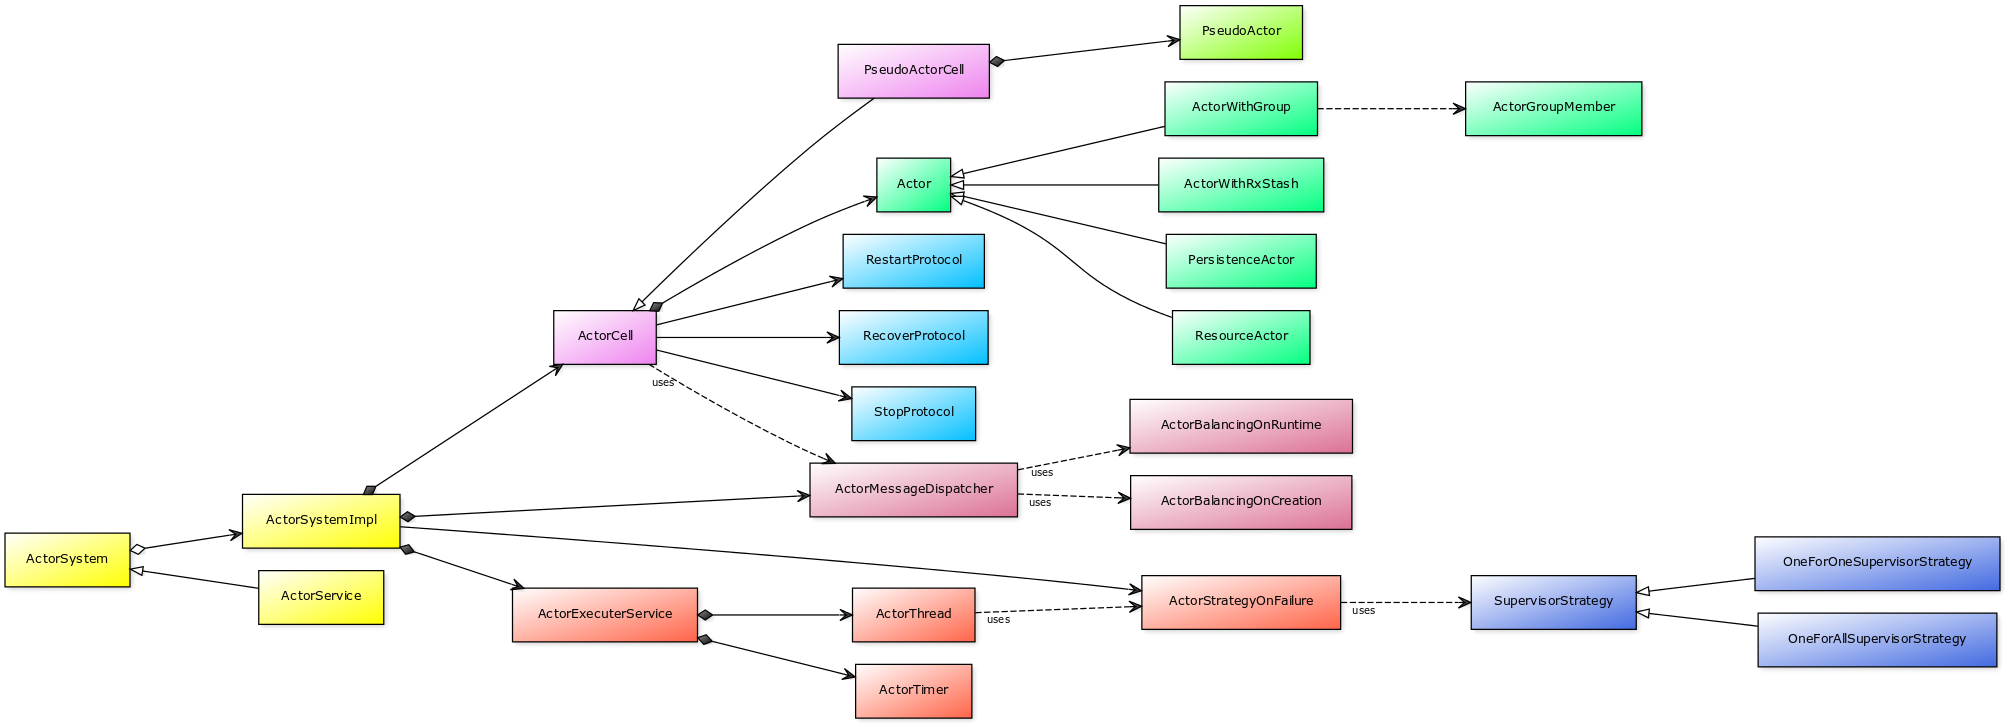
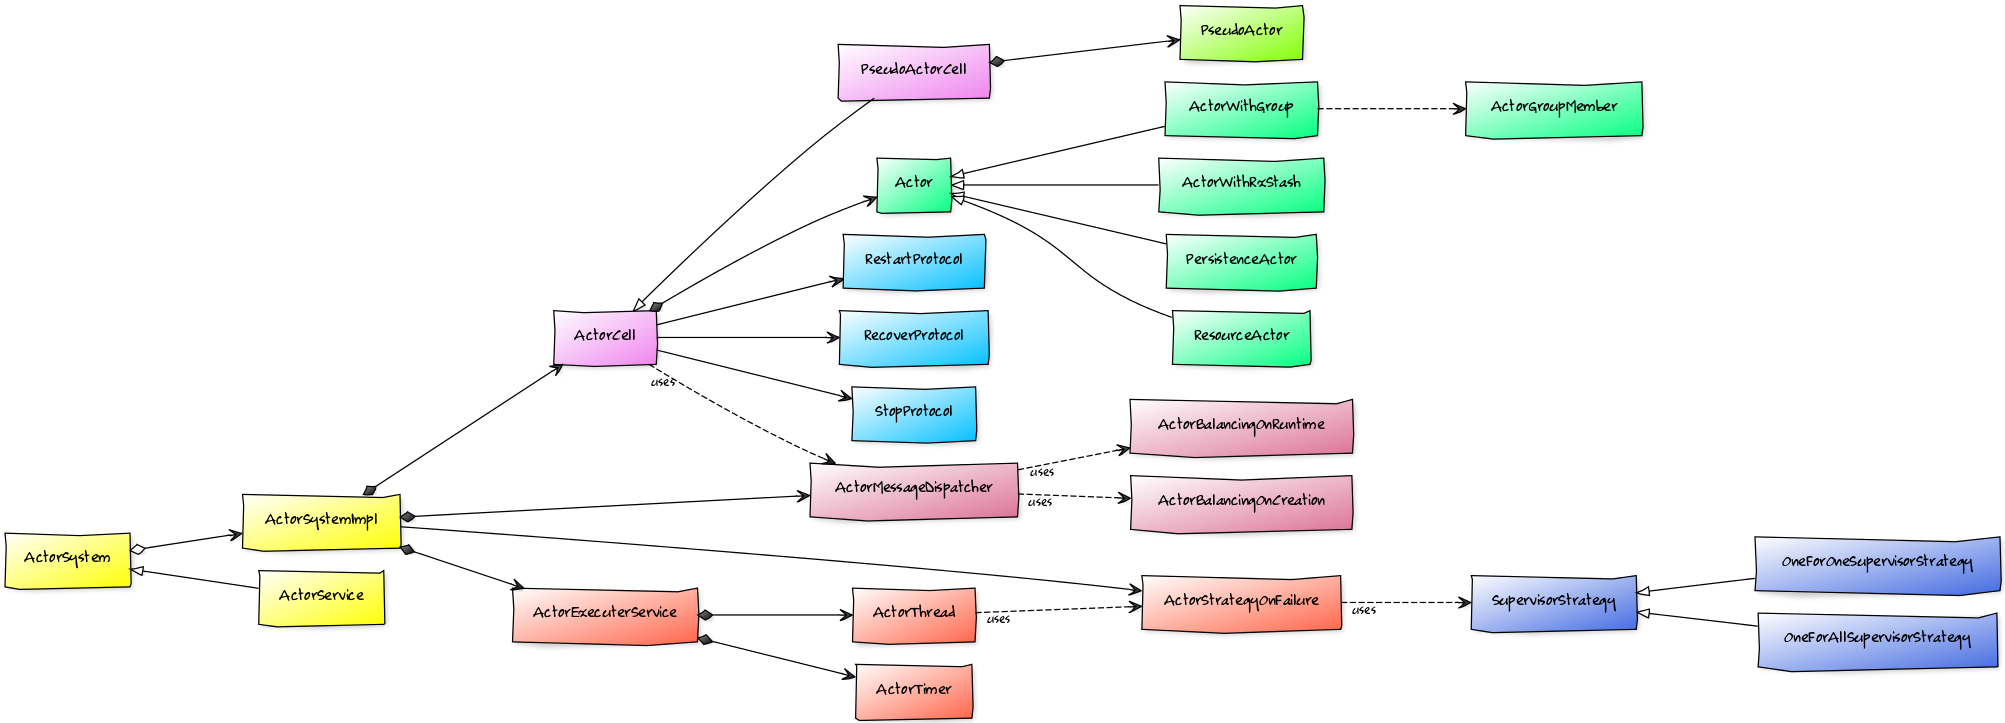
Update

diff --git a/Readme.md b/Readme.md
@@ -249,13 +249,15 @@ The most important core components of `actor4j` can be seen in the overview (Fig
 ### Developer's point of view ###
 For a potential supporter or interested person, further details are helpful. The class `ActorSystem` is a wrapper of the class `ActorSystemImpl`. `ActorSystemImpl` internally creates a map of the set `ActorCell`. A wrapper is also the class `Actor` from the class `ActorCell`. `ActorSystemImpl` uses the `ActorExecuterService` to generate the `ActorThreads`. `ActorThreads` are executing the actors when they have received a message. The `ActorMessageDispatcher` acts as a link between the actors during message passing. It places the new message in the appropriate queue of the `ActorThread`. In the case of an actor error, the `ActorThread` class is called the auxiliary class `ActorStrategyOnFailure`, which then executes the defined strategy of the supervisor (`OneForOneSupervisorStrategy` or `OneForAllSupervisorStrategy`). Supervisor strategies can affect the `RestartProtocol` as well as the `StopProtocol`. These protocols can also be triggered by a corresponding message to the actor (`RESTART`, `STOP` or `POISONPILL`). `PseudoActor` has its own `ActorCell`, which is called `PseudoActorCell`. This also includes a separate queue for the purpose of communication between the actor system and the outside world (the `PseudoActor`). Last but not least again to the `ActorMessageDispatcher`. The `ActorBalancingOnCreation` class is used to distribute the actors on the `ActorThreads` when the actor system is started. At runtime, the class `ActorBalancingOnRuntime` is used.
 
-<img src="doc/images/cd_top_down.png" alt="Class diagram to the core components of actor4j" width="1267" height="802"/>
+<img src="doc/images/class diagram.png" alt="Class diagram to the core components of actor4j" width="1071" height="584"/>
 
-Fig. 4 a): Class diagram (top-down) to the core components of `actor4j`
+Fig. 4: Class diagram to the core components of `actor4j`
 
-<img src="doc/images/cd_left_right.png" alt="Class diagram to the core components of actor4j" width="1504" height="539"/>
+### Note ###
 
-Fig. 4 b): Class diagram (left-right) to the core components of `actor4j`
+Enclosed two scruffy class diagrams maked with `yuml.me`, have fun!
+* [Class diagram - top down](https://raw.githubusercontent.com/relvaner/actor4j/master/doc/images/cd_top_down.png)
+* [Class diagram - left to right](https://raw.githubusercontent.com/relvaner/actor4j/master/doc/images/cd_left_right.png)
 
 ## Cluster configuration ##
 
